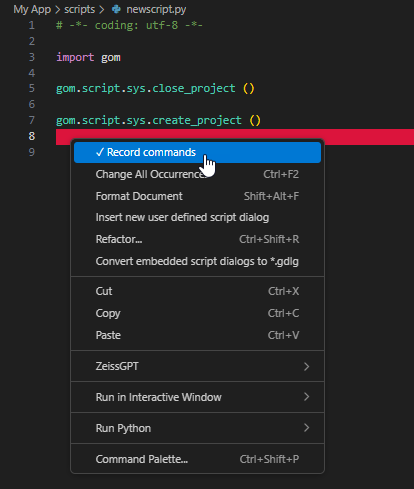
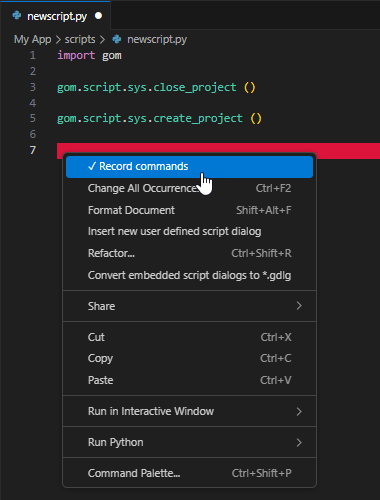
Deploy documentation of '20250604-update-command-recording-2025' to GitHub Pages

diff --git a/20250604-update-command-recording-2025/genindex.html b/20250604-update-command-recording-2025/genindex.html
@@ -239,7 +239,7 @@
   <div class="footer">
     <a href="https://www.gom.com/en/imprint" target="_blank" rel="noopener noreferrer">Imprint</a>
   </div>
-  <jinja2.runtime.BlockReference object at 0x7f78696e2430>
+  <jinja2.runtime.BlockReference object at 0x7f56c9de2430>
 
 
 </footer>

diff --git a/20250604-update-command-recording-2025/howtos/adding_workspaces_to_apps/adding_workspaces_to_apps.html b/20250604-update-command-recording-2025/howtos/adding_workspaces_to_apps/adding_workspaces_to_apps.html
@@ -432,7 +432,7 @@
   <div class="footer">
     <a href="https://www.gom.com/en/imprint" target="_blank" rel="noopener noreferrer">Imprint</a>
   </div>
-  <jinja2.runtime.BlockReference object at 0x7f7869270a50>
+  <jinja2.runtime.BlockReference object at 0x7f56c9970a50>
 
 
 </footer>

diff --git a/20250604-update-command-recording-2025/howtos/app_documentation/app_documentation.html b/20250604-update-command-recording-2025/howtos/app_documentation/app_documentation.html
@@ -354,7 +354,7 @@ The ZEISS App Development Environment converts Releasenotes from Markdown to PDF
   <div class="footer">
     <a href="https://www.gom.com/en/imprint" target="_blank" rel="noopener noreferrer">Imprint</a>
   </div>
-  <jinja2.runtime.BlockReference object at 0x7f7868697230>
+  <jinja2.runtime.BlockReference object at 0x7f56c8d97230>
 
 
 </footer>

diff --git a/20250604-update-command-recording-2025/howtos/app_documentation/assets/Releasenotes.html b/20250604-update-command-recording-2025/howtos/app_documentation/assets/Releasenotes.html
@@ -200,7 +200,7 @@
   <div class="footer">
     <a href="https://www.gom.com/en/imprint" target="_blank" rel="noopener noreferrer">Imprint</a>
   </div>
-  <jinja2.runtime.BlockReference object at 0x7f78688ca8d0>
+  <jinja2.runtime.BlockReference object at 0x7f56c8fca8d0>
 
 
 </footer>

diff --git a/20250604-update-command-recording-2025/howtos/app_file_format/app_file_format.html b/20250604-update-command-recording-2025/howtos/app_file_format/app_file_format.html
@@ -598,7 +598,7 @@ the menu hierarchy is created from the script’s path within the App’s <code 
   <div class="footer">
     <a href="https://www.gom.com/en/imprint" target="_blank" rel="noopener noreferrer">Imprint</a>
   </div>
-  <jinja2.runtime.BlockReference object at 0x7f78690cbac0>
+  <jinja2.runtime.BlockReference object at 0x7f56c97cbac0>
 
 
 </footer>

diff --git a/20250604-update-command-recording-2025/howtos/faq/faq.html b/20250604-update-command-recording-2025/howtos/faq/faq.html
@@ -591,7 +591,7 @@ where <code class="docutils literal notranslate"><span class="pre">%APPDATA</spa
   <div class="footer">
     <a href="https://www.gom.com/en/imprint" target="_blank" rel="noopener noreferrer">Imprint</a>
   </div>
-  <jinja2.runtime.BlockReference object at 0x7f7868f9a950>
+  <jinja2.runtime.BlockReference object at 0x7f56c969a950>
 
 
 </footer>

diff --git a/20250604-update-command-recording-2025/howtos/localization/localization.html b/20250604-update-command-recording-2025/howtos/localization/localization.html
@@ -372,7 +372,7 @@
   <div class="footer">
     <a href="https://www.gom.com/en/imprint" target="_blank" rel="noopener noreferrer">Imprint</a>
   </div>
-  <jinja2.runtime.BlockReference object at 0x7f7867ec88c0>
+  <jinja2.runtime.BlockReference object at 0x7f56c85c88c0>
 
 
 </footer>

diff --git a/20250604-update-command-recording-2025/howtos/project_keywords/project_keywords.html b/20250604-update-command-recording-2025/howtos/project_keywords/project_keywords.html
@@ -231,7 +231,7 @@
   <div class="footer">
     <a href="https://www.gom.com/en/imprint" target="_blank" rel="noopener noreferrer">Imprint</a>
   </div>
-  <jinja2.runtime.BlockReference object at 0x7f78683951d0>
+  <jinja2.runtime.BlockReference object at 0x7f56c89f51d0>
 
 
 </footer>

diff --git a/20250604-update-command-recording-2025/howtos/python_api_introduction/creating_wizard_dialogs.html b/20250604-update-command-recording-2025/howtos/python_api_introduction/creating_wizard_dialogs.html
@@ -444,7 +444,7 @@ First of all we have to define appropriate dialogs:</p>
   <div class="footer">
     <a href="https://www.gom.com/en/imprint" target="_blank" rel="noopener noreferrer">Imprint</a>
   </div>
-  <jinja2.runtime.BlockReference object at 0x7f7868ffee10>
+  <jinja2.runtime.BlockReference object at 0x7f56c96fee10>
 
 
 </footer>

diff --git a/20250604-update-command-recording-2025/howtos/python_api_introduction/file_selection_dialog.html b/20250604-update-command-recording-2025/howtos/python_api_introduction/file_selection_dialog.html
@@ -246,7 +246,7 @@
   <div class="footer">
     <a href="https://www.gom.com/en/imprint" target="_blank" rel="noopener noreferrer">Imprint</a>
   </div>
-  <jinja2.runtime.BlockReference object at 0x7f7868b297b0>
+  <jinja2.runtime.BlockReference object at 0x7f56c92297b0>
 
 
 </footer>

diff --git a/20250604-update-command-recording-2025/howtos/python_api_introduction/python_api_introduction.html b/20250604-update-command-recording-2025/howtos/python_api_introduction/python_api_introduction.html
@@ -516,7 +516,7 @@ context.stage = current_stage
   <div class="footer">
     <a href="https://www.gom.com/en/imprint" target="_blank" rel="noopener noreferrer">Imprint</a>
   </div>
-  <jinja2.runtime.BlockReference object at 0x7f7868a437f0>
+  <jinja2.runtime.BlockReference object at 0x7f56c9143ed0>
 
 
 </footer>

diff --git a/20250604-update-command-recording-2025/howtos/python_api_introduction/selecting_elements.html b/20250604-update-command-recording-2025/howtos/python_api_introduction/selecting_elements.html
@@ -437,7 +437,7 @@ that match any of the filters (disjunction / OR):</p>
   <div class="footer">
     <a href="https://www.gom.com/en/imprint" target="_blank" rel="noopener noreferrer">Imprint</a>
   </div>
-  <jinja2.runtime.BlockReference object at 0x7f78684d88c0>
+  <jinja2.runtime.BlockReference object at 0x7f56c89d90a0>
 
 
 </footer>